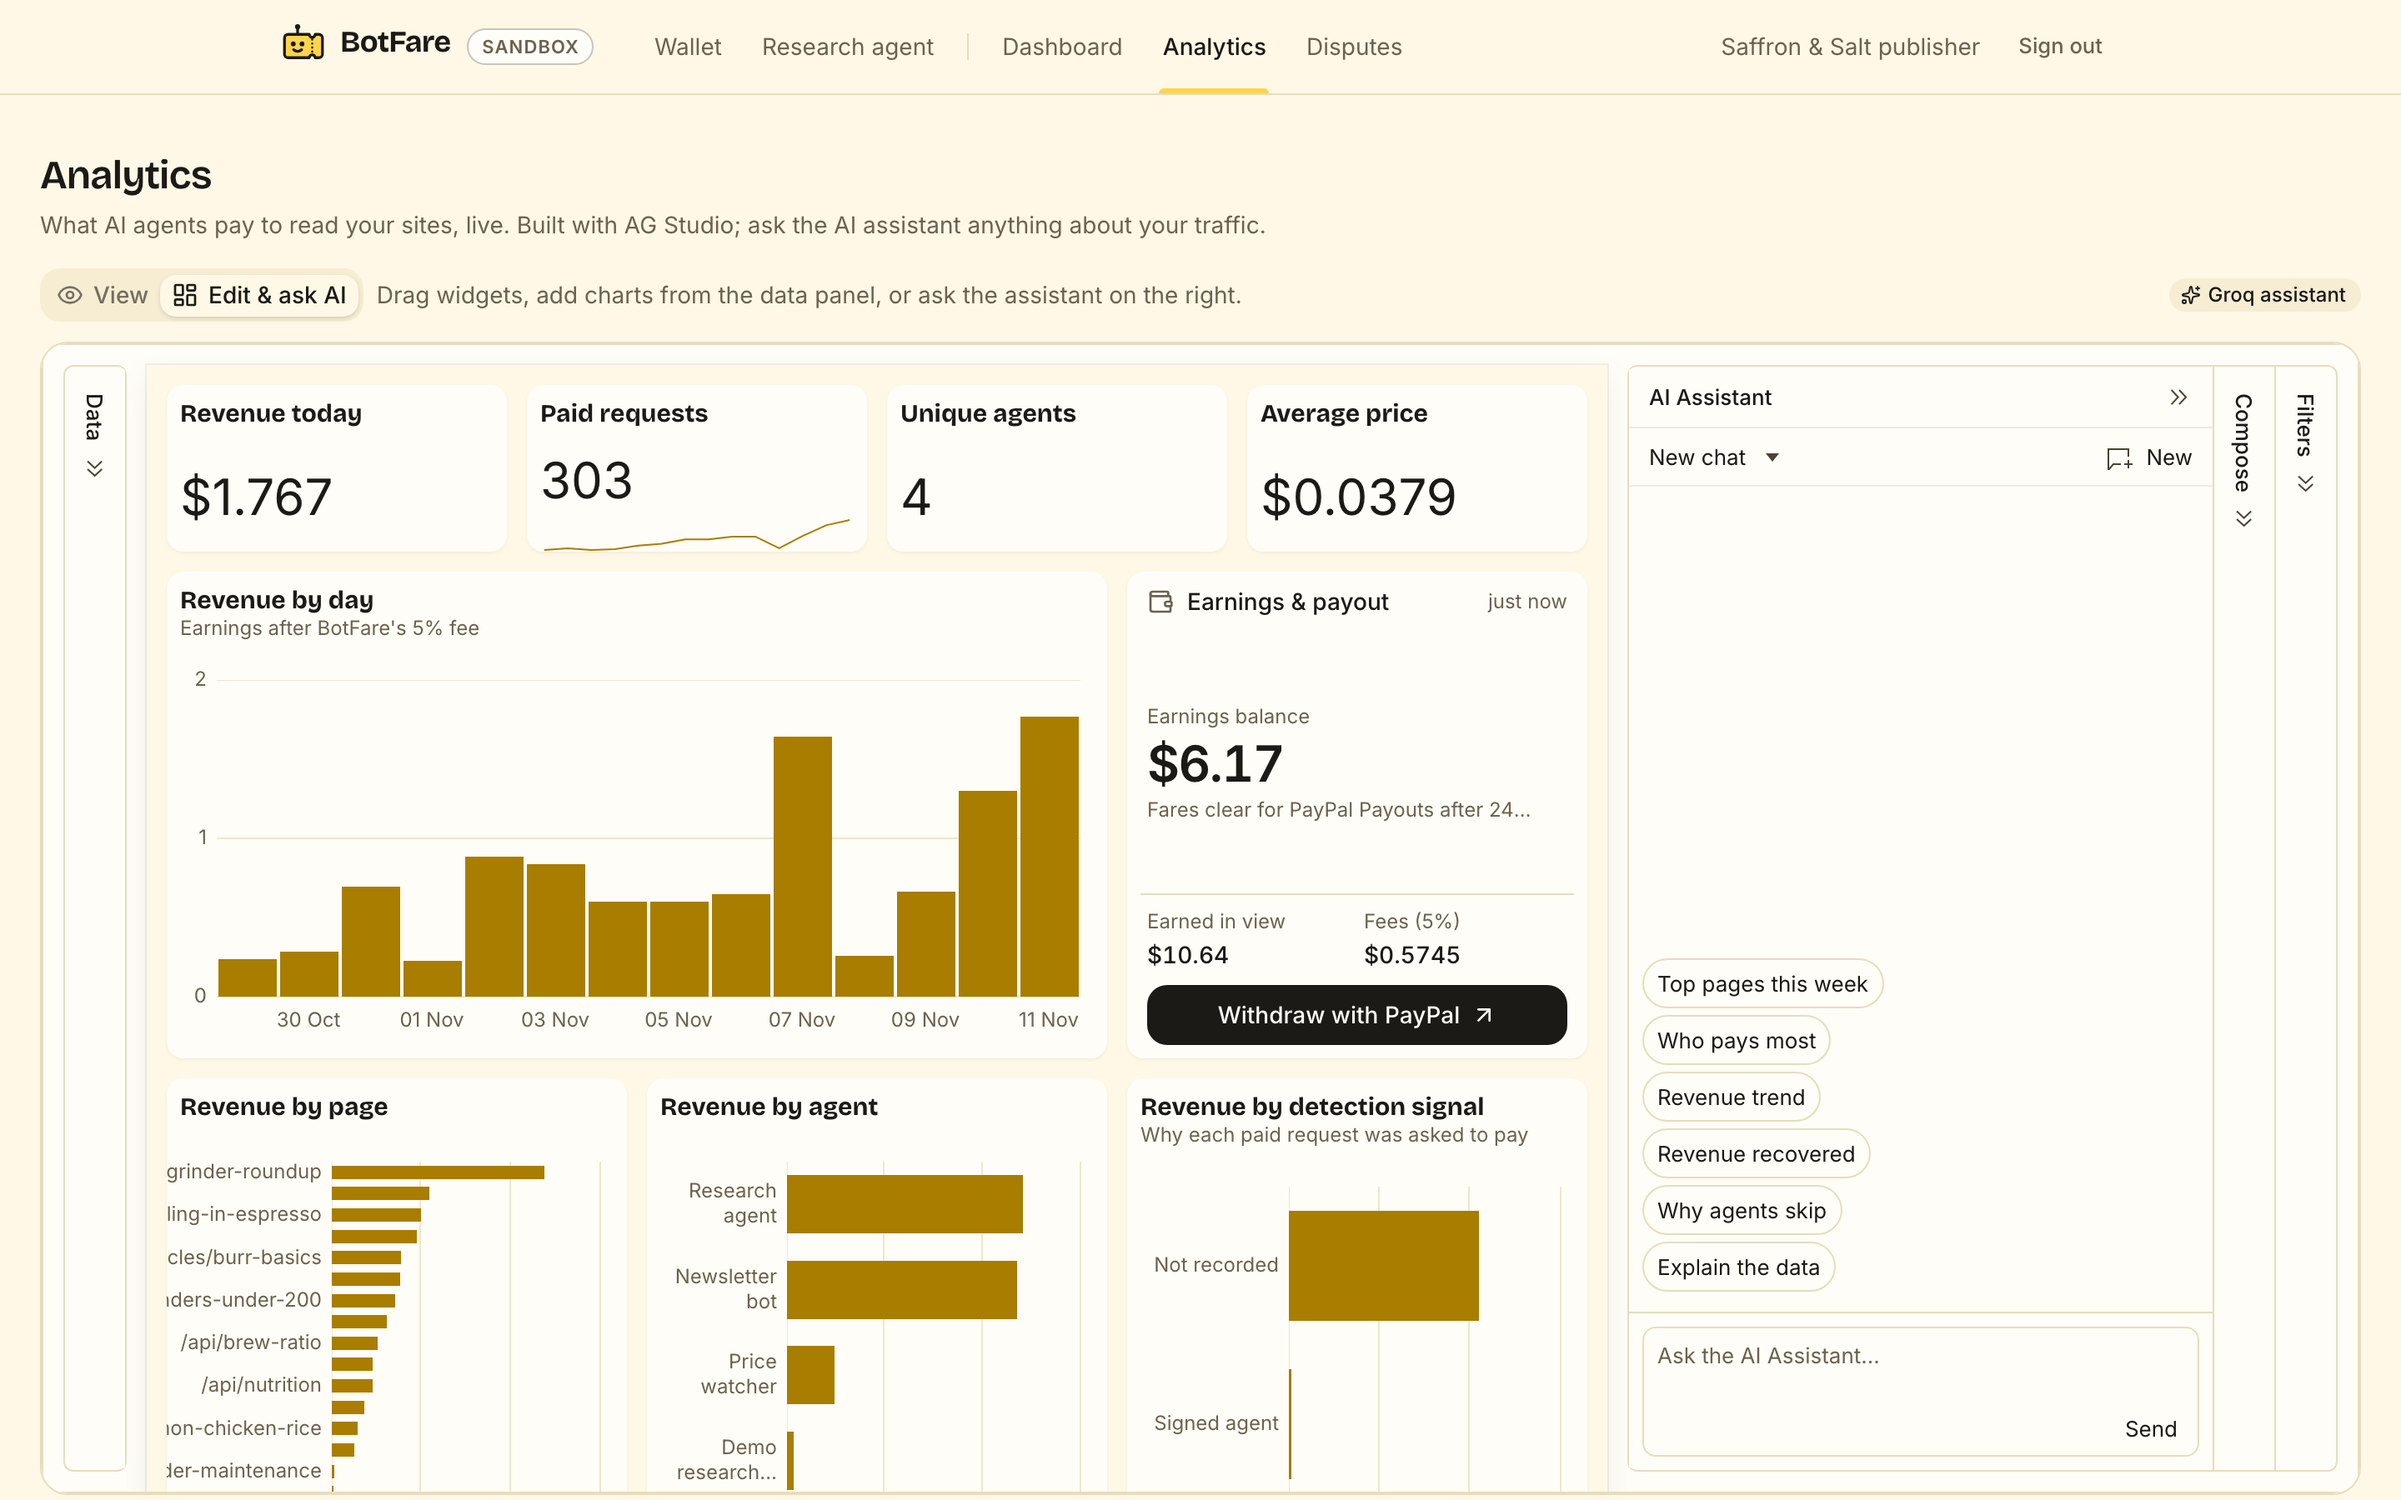
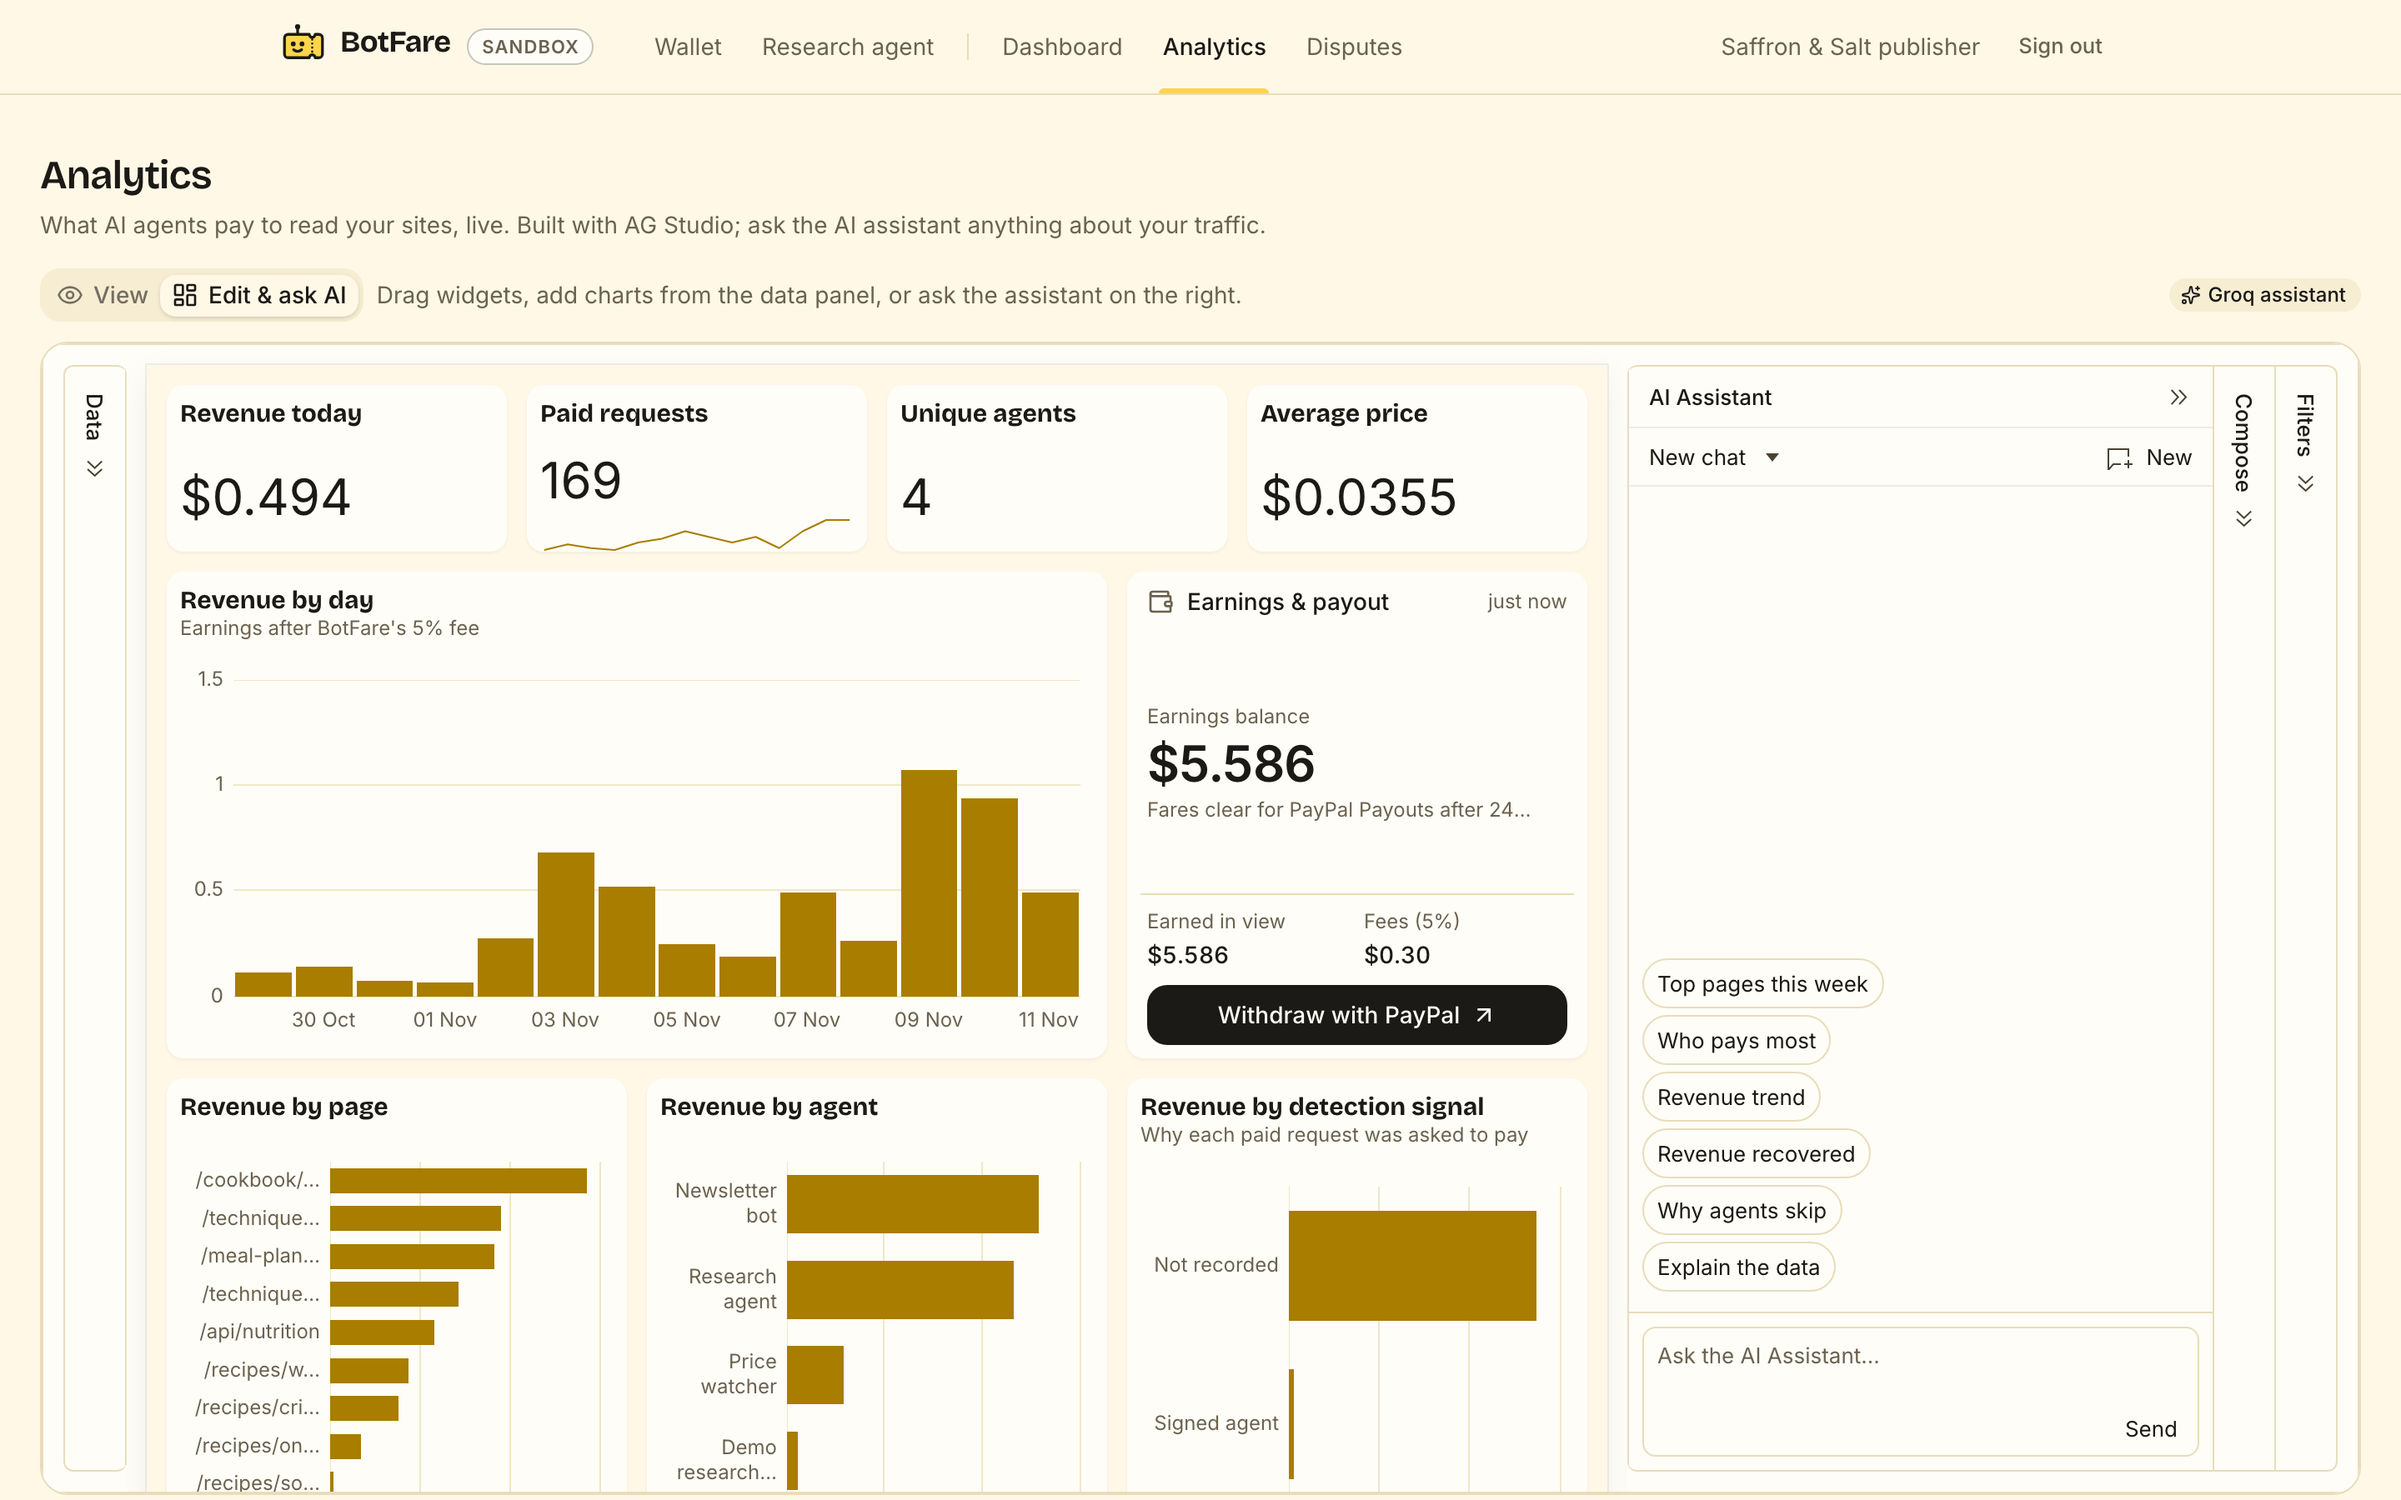
Live data started fresh on Render: verify, dashboard, analytics and wallet screenshots retaken on recipe-only data; README drops the in-place migration steps for the live deploy; TASKS: Phase 3f and 4 complete, screenshots and public repo done

diff --git a/docs/TASKS.md b/docs/TASKS.md
@@ -4,7 +4,7 @@
 
 **Deadline:** Thu 12 Nov 2026, 12:00 pm PST (Fri 13 Nov, 1:30 am IST). **Target:** submit by Thu 8 pm IST.
 
-**Last updated:** Wed 11 Nov 2026 (Phase 3f: the demo site becomes Saffron & Salt, a recipe blog) · earlier Wed 11 Nov (final pre-deploy audit: 5 auditors and verifiers; confirmed findings fixed, incl. the Groq 413 on the default question and Verify sources in the Docker stack; Devpost text and video script drafted) · previously Mon 9 Nov, 10:50 am IST (Phase 3d)
+**Last updated:** Wed 11 Nov 2026, evening (live data started fresh on Render with `pnpm db:reset`; screenshots retaken) · earlier Wed 11 Nov (Phase 3f: the demo site becomes Saffron & Salt, a recipe blog) · earlier Wed 11 Nov (final pre-deploy audit: 5 auditors and verifiers; confirmed findings fixed, incl. the Groq 413 on the default question and Verify sources in the Docker stack; Devpost text and video script drafted) · previously Mon 9 Nov, 10:50 am IST (Phase 3d)
 
 ## Overview
 
@@ -17,11 +17,11 @@
 | 3b. Fare Court and Fare Advisor (AI on every side) | Mon 9 | ✅ Done (a day early; live AI verdicts need you) | 8 / 8 |
 | 3c. Signed receipts (proof of payment, delivery, sourcing) | Mon 9 | ✅ Done (a day early) | 5 / 5 |
 | 3d. Payout hold and any-model AI | Mon 9 | ✅ Done | 2 / 2 |
-| 3f. Recipe demo site | Wed 11 | ✅ Built; Render migration needs you | 6 / 7 |
-| 4. Deploy to Render | Wed 11 (last build step) | ✅ Live | 6 / 6 |
-| 5. Submission | Thu 12 | 🔄 Texts drafted | 2 / 10 |
+| 3f. Recipe demo site | Wed 11 | ✅ Live (data started fresh) | 7 / 7 |
+| 4. Deploy to Render | Wed 11 (last build step) | ✅ Live | 7 / 7 |
+| 5. Submission | Thu 12 | 🔄 Texts, screenshots, public repo | 4 / 10 |
 
-**Overall: about 87% done** (72 of 84 items). Live at https://botfare-web.onrender.com. Next: the video, screenshots, repo public and the Devpost form.
+**Overall: about 89% done** (76 of 85 items). Live at https://botfare-web.onrender.com. Next: the video and the Devpost form, then the animated How it works.
 
 **Legend:** ✅ done · 🔄 in progress · ⏳ pending · 👤 needs you · ⭐ prize-related
 
@@ -141,7 +141,7 @@ Saffron & Salt, a recipe blog, replaces the coffee site Crema Notes. `pnpm seed`
 | ✅ | App copy: 2¢ hero ticket, three research questions (dal, crispy potatoes, sourdough), `/judge` commands, Fare Court card | `apps/web` |
 | ✅ | e2e on the recipe site: 2¢ ledger maths (wallet −20,000, publisher +19,000, BotFare +1,000), cookbook Apply 50¢ → 8¢ | `scripts/e2e.ts`; 30/30 on 3100/4100, 791 unit and DB tests |
 | ✅ | Docs: README, Devpost, video script (2-second holds on the Fare Court and Fare Advisor cards, the sourdough refund), protocol examples, Docker, MCP examples | |
-| ⏳ | 👤 Render: after the deploy, `BOTFARE_SITE_ID=… BOTFARE_SITE_SECRET=… pnpm seed` and `pnpm seed:traffic --run-key recipes` in botfare-web's Shell | [README, Deploy](../README.md#deploy) |
+| ✅ | 👤 Render: started fresh instead of renaming in place (`pnpm db:reset`, then seed and seed:traffic) | 11 Nov, see Phase 4; [README, Deploy](../README.md#deploy) |
 
 ## Phase 3g: Polish from friends' feedback ✅ (11 Nov)
 
@@ -166,6 +166,7 @@ Deploying is the last build step, by choice. It must happen by Wednesday night s
 | ✅ | Daily payouts cron and weekly demo refresh cron live | `botfare-payouts`, `botfare-demo-refresh` (`pnpm seed:traffic --weekly`, Mondays); both built |
 | ✅ | Live smoke test: 402 → pay → receipt, top-up, Withdraw now | 11 Nov: browser reads free, agent gets a 402, a Groq research run paid 8¢ with 2 citations, all 4 signed statements verify against the live JWKS, every persona page loads. $20 top-up captured (fee $1.19); Withdraw now $4.41, batch 4L7JYBW8ZQ47E reached SUCCESS |
 | ✅ | 👤 Sandbox buyer for judges: a sandbox personal account in `JUDGE_SANDBOX_BUYER_EMAIL`/`_PASSWORD` on botfare-web, and in the Devpost test-credentials field | `/judge` shows it; without it the page says to use any sandbox personal account |
+| ✅ | 👤 Live data started fresh: `pnpm db:reset --yes-delete-everything`, `db:migrate`, `seed --print-secrets` and `seed:traffic` in botfare-web's Shell; new site ID, secret and agent key in Render | 11 Nov: no coffee rows left (the ledger rows of the earlier $20 top-up and $4.41 payout went too; PayPal's records stay). All five tiers answer 402 (2, 5, 8, 50 and 1¢) and a browser reads free; a Groq research run bought 3 pages for 12¢ but hit the 240 s limit before answering; `/verify`'s sample `rcpt_ce0a2439229e4880` verifies (payment and delivery) |
 
 ## Phase 5: Submission ⏳
 
@@ -175,9 +176,9 @@ Deploying is the last build step, by choice. It must happen by Wednesday night s
 | ✅ | Video script with exact clicks | [`VIDEO_SCRIPT.md`](VIDEO_SCRIPT.md) |
 | ⏳ | 👤 Demo video under 3 minutes, public on YouTube | Close: "Pay the fare, pal." |
 | ✅ | `docs/DEVPOST.md`: description mapped to the five judging criteria | [`DEVPOST.md`](DEVPOST.md); fill in the live URLs after the deploy |
-| ⏳ | Screenshots: publisher setup, wallet top-up, agent answer with paid citations, Payouts batch | |
+| ✅ | Screenshots | 10 live shots in [`screenshots/`](screenshots) (landing, Fare Court and Advisor, How it works, one line, `/judge`, `/verify`, dashboard, analytics, wallet, agent), retaken after the fresh start; the Payouts batch goes in the B-roll |
 | 🔄 | Final README and architecture diagram check | Done 11 Nov (judging-criteria section, deploy steps, PayPal APIs linked to code); add the live URL and video link after the deploy |
-| ⏳ | 👤 Make the repo public; MIT license visible | |
+| ✅ | 👤 Make the repo public; MIT license visible | 11 Nov: public at https://github.com/Sajjad21990/botfare |
 | ⏳ | 👤 Devpost form: Built With, sponsor tools (AG Grid, APIMatic, Render), test credentials | |
 | ⏳ | 👤 APIMatic claim form | |
 | ⏳ | Keep Render services and sandbox credentials running until winners are announced (~21 Dec) | |

diff --git a/README.md b/README.md
@@ -541,14 +541,7 @@ Running the seed again keeps the site secret only if it can see the current one,
 
 To start the live demo data fresh (for example after the demo site changed), run in `botfare-web`'s Shell: `pnpm db:reset --yes-delete-everything`, `pnpm db:migrate`, `pnpm seed --print-secrets` and `pnpm seed:traffic`, then paste the printed `BOTFARE_SITE_ID` and `BOTFARE_SITE_SECRET` into `botfare-demo` and `BOTFARE_AGENT_KEY` into `botfare-web`. The reset drops every table and is permanent; it refuses to run without that flag and refuses a database on localhost unless `--allow-local` is added too. PayPal's own sandbox records are not touched, and the receipt keys stay the same.
 
-**Moving a live deploy to the recipe demo.** A database seeded by an earlier version, like the live one deployed on 11 Nov, still holds the coffee demo site Crema Notes. After this version deploys, run these two commands in `botfare-web`'s Shell, with the site ID and secret from `botfare-demo` > Environment:
-
-```bash
-BOTFARE_SITE_ID=… BOTFARE_SITE_SECRET=… pnpm seed
-pnpm seed:traffic --run-key recipes
-```
-
-The seed renames the site to Saffron & Salt and moves the publisher persona to its new email, keeping the site ID, secret, user and history, and replaces the prices and free paths with the recipe ones. The demo needs no new secret. The traffic run adds two weeks of recipe purchases and the Fare Court and Fare Advisor story. The older coffee receipts stay in the history and drop out of the 14-day charts within two weeks.
+The live demo was started fresh this way on 11 Nov, when Saffron & Salt replaced the coffee site Crema Notes. To keep an older database's history instead, `BOTFARE_SITE_ID=… BOTFARE_SITE_SECRET=… pnpm seed` (the values from `botfare-demo` > Environment) renames Crema Notes to Saffron & Salt in place, keeping its ID, secret and receipts, and `pnpm seed:traffic --run-key recipes` adds the recipe traffic.
 
 ## Built with
 
